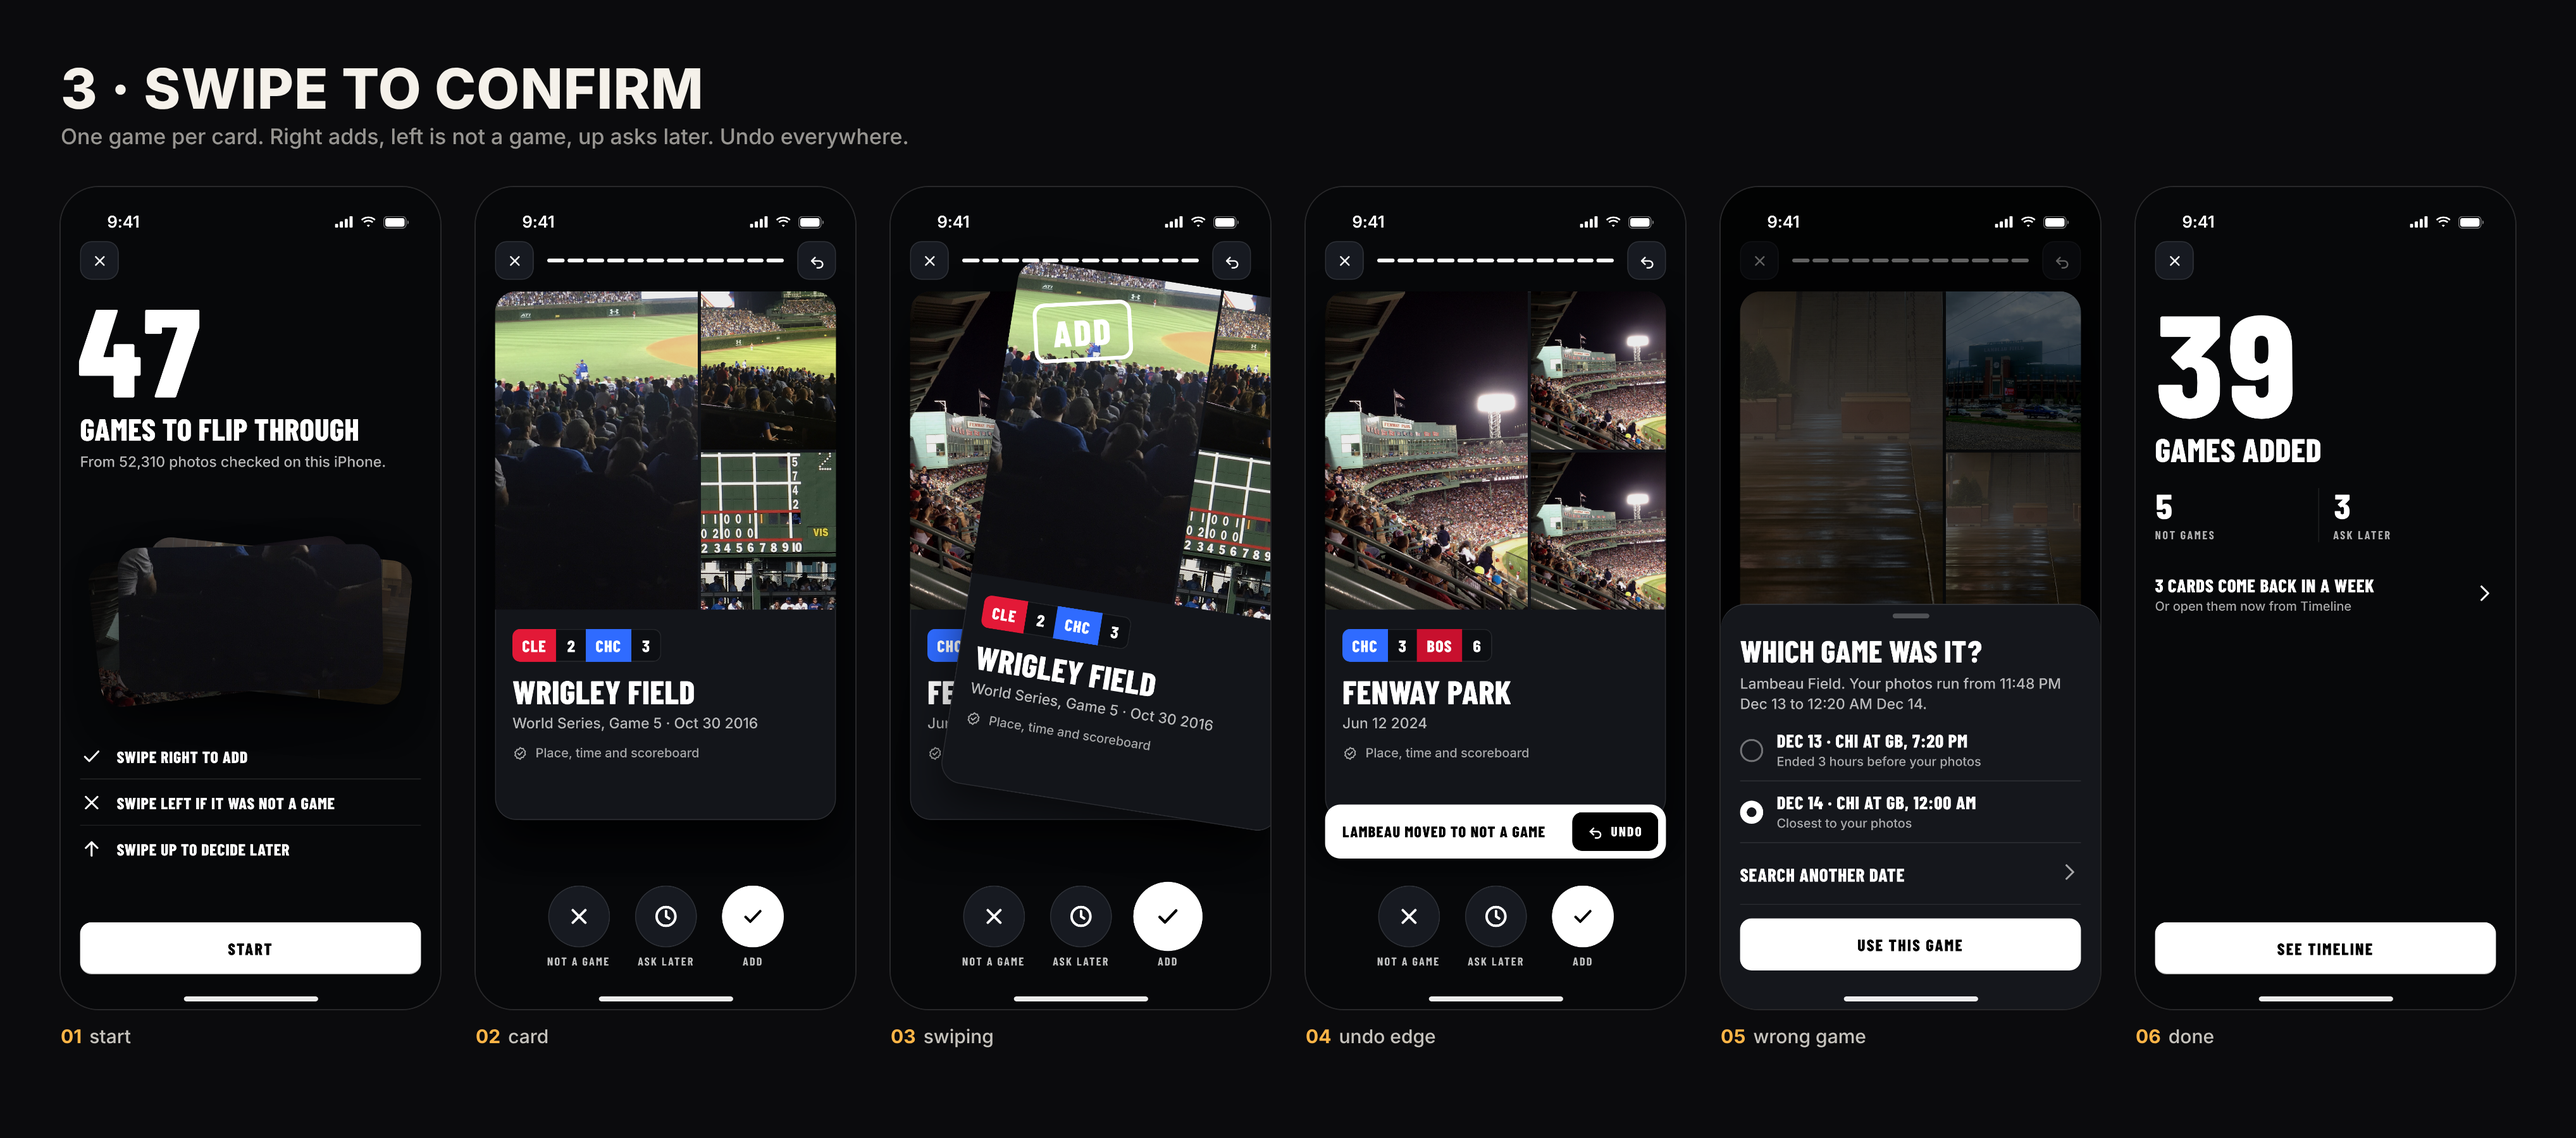
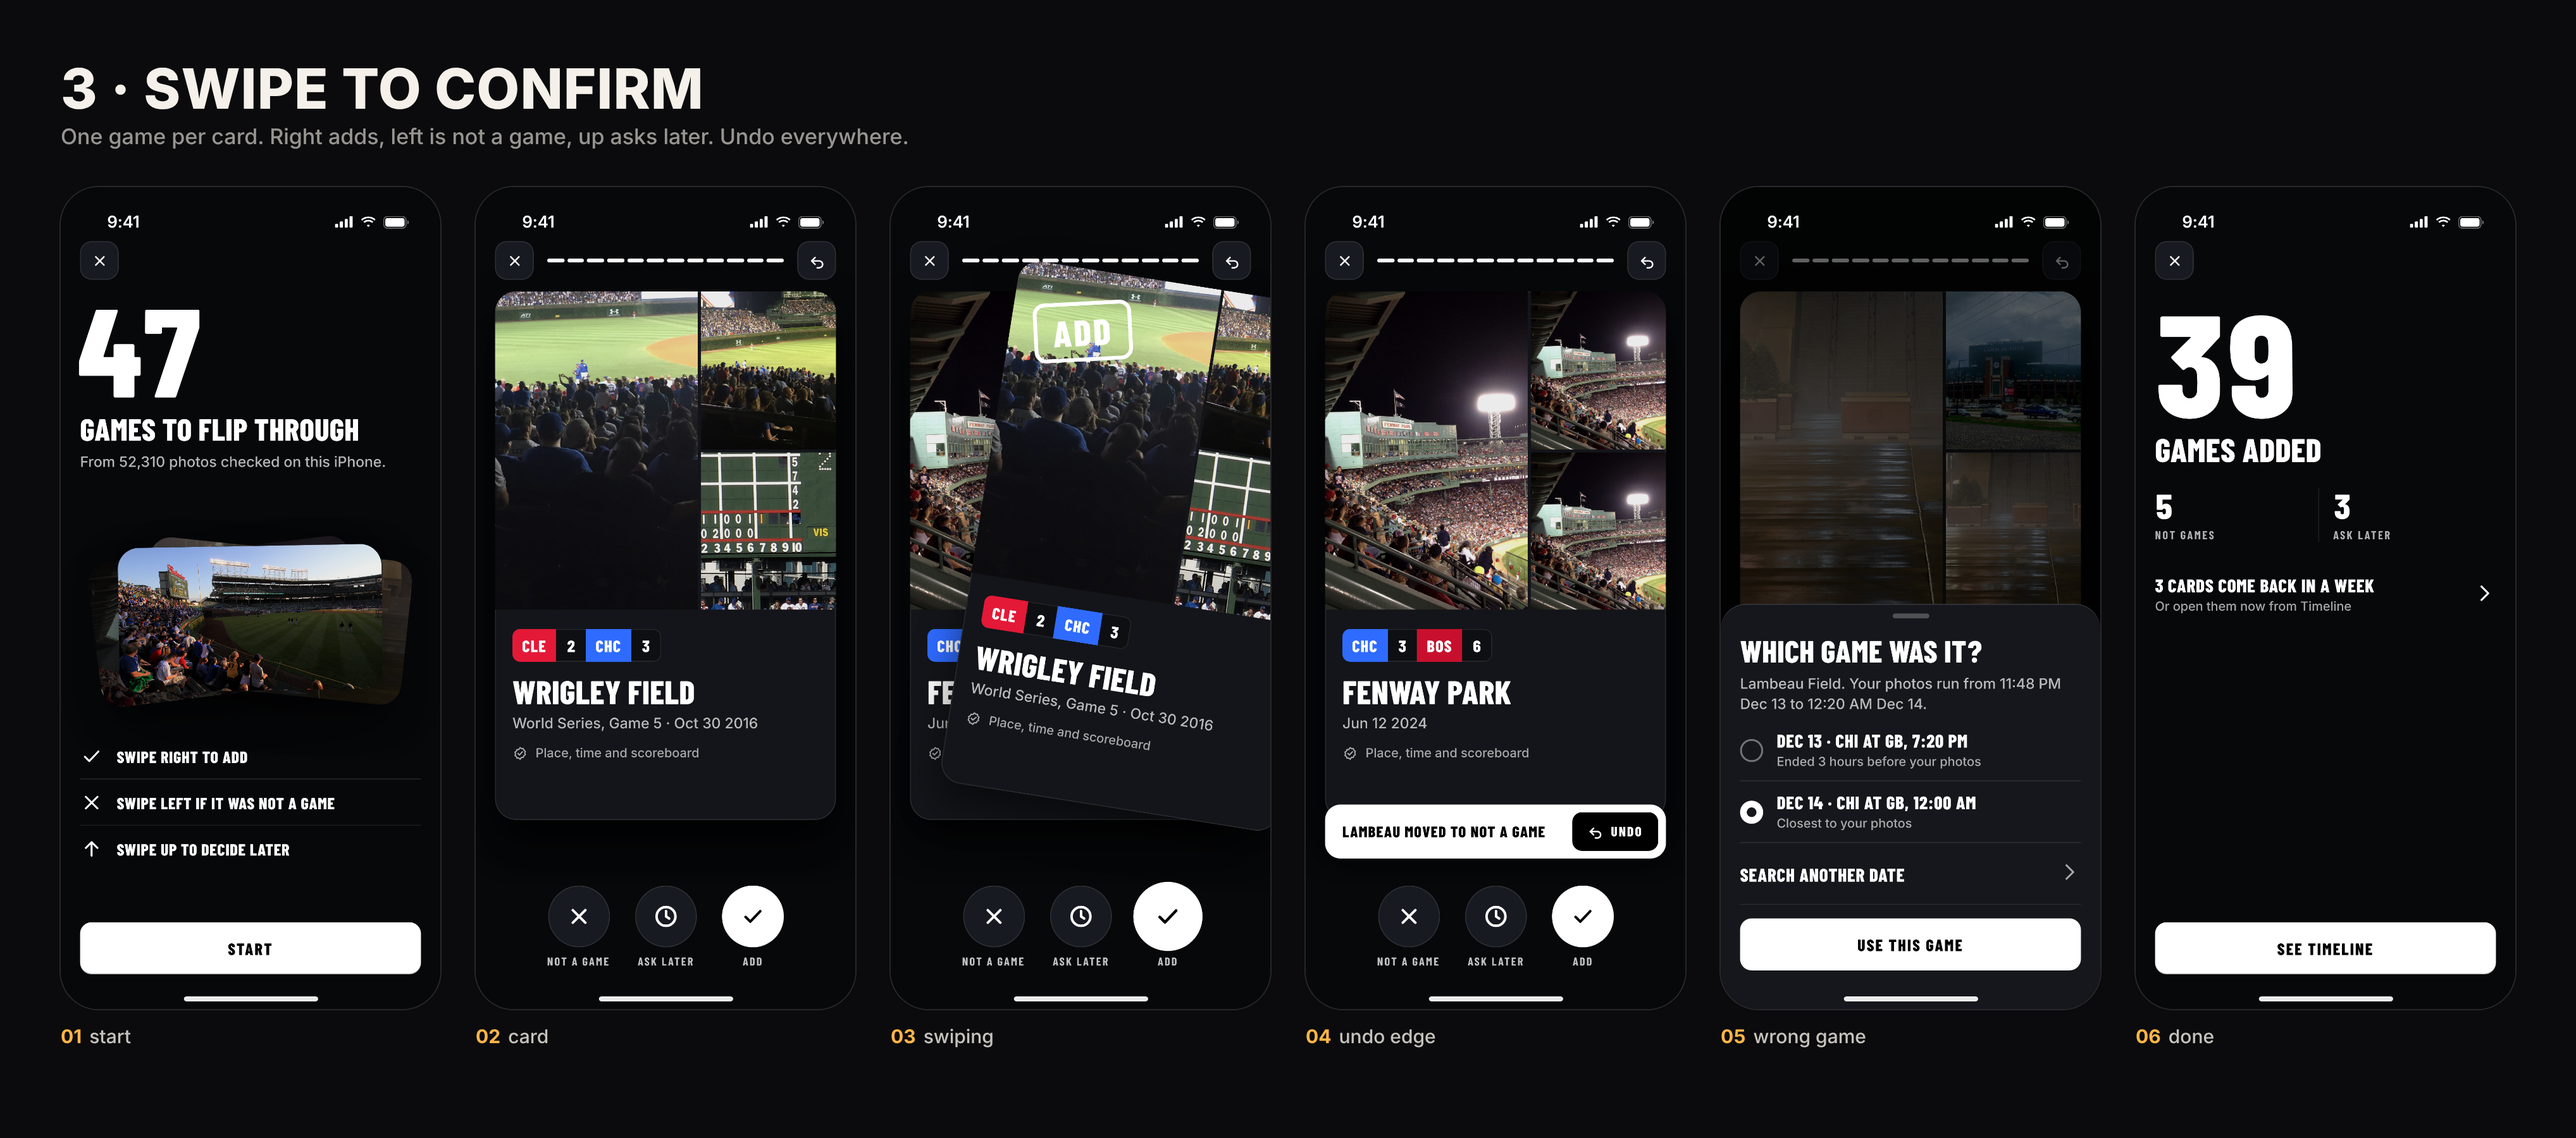
Mockups: timeline view modes and switcher
Claude-Session: https://claude.ai/code/session_01YKCsRGYnDsF5Pryete24Wa

Changed region(s): [[0.0312, 0.4667, 0.1559, 0.6222]]

diff --git a/mockups/scan-handling/features/approach-3/v1-start.html b/mockups/scan-handling/features/approach-3/v1-start.html
@@ -81,7 +81,7 @@ body.b { --b-text-3: rgba(255,255,255,.62); --amber:#ffb547; }
 <div style="position:absolute;left:60px;right:60px;top:372px;height:150px">
   <div class="card b2" style="top:0;transform:rotate(-7deg) translateX(-26px)"><div class="abs"><img class="im" src="../../../photos/fenway-night.jpg" style="object-position:50% 40%;"></div></div>
   <div class="card b2" style="transform:rotate(6deg) translateX(26px)"><div class="abs"><img class="im" src="../../../photos/lambeau-concourse.jpg" style="object-position:50% 96%;transform:scale(1.6);transform-origin:50% 96%;"></div></div>
-  <div class="card" style="transform:rotate(-1deg)"><div class="abs"><img class="im" src="../../../photos/wrigley-night.jpg" style="object-position:60% 92%;transform:scale(1.9);transform-origin:60% 92%;"></div></div>
+  <div class="card" style="transform:rotate(-1deg)"><div class="abs"><img class="im" src="../../../photos/wrigley-bleachers.jpg" style="object-position:50% 50%;"></div></div>
 </div>
 <div style="position:absolute;left:20px;right:20px;top:566px" class="f-list">
   <div class="gr" style="min-height:48px;gap:14px"><span class="ico24" style="display:grid"><svg class="ico24" viewBox="0 0 24 24"><path d="M5 12.5l4.5 4.5L19 7"/></svg></span><div class="t" style="font-size:17px">Swipe right to add</div></div>

diff --git a/mockups/scan-handling/a345.py b/mockups/scan-handling/a345.py
@@ -42,7 +42,7 @@ page(F, 'v1-start', 'Swipe intro', nav(icb('x')) + '''
 <div style="position:absolute;left:60px;right:60px;top:372px;height:150px">
   <div class="card b2" style="top:0;transform:rotate(-7deg) translateX(-26px)"><div class="abs">''' + im('fenway-night.jpg', '50% 40%') + '''</div></div>
   <div class="card b2" style="transform:rotate(6deg) translateX(26px)"><div class="abs">''' + im('lambeau-concourse.jpg', '50% 80%') + '''</div></div>
-  <div class="card" style="transform:rotate(-1deg)"><div class="abs">''' + im('wrigley-night.jpg', '50% 38%') + '''</div></div>
+  <div class="card" style="transform:rotate(-1deg)"><div class="abs">''' + im('wrigley-bleachers.jpg', '50% 50%') + '''</div></div>
 </div>
 <div style="position:absolute;left:20px;right:20px;top:566px" class="f-list">
   <div class="gr" style="min-height:48px;gap:14px"><span class="ico24" style="display:grid">''' + I['check'].replace('<svg', '<svg class="ico24"') + '''</span><div class="t" style="font-size:17px">Swipe right to add</div></div>

diff --git a/mockups/timeline-views/NOTES.md b/mockups/timeline-views/NOTES.md
@@ -1,0 +1,21 @@
+# Timeline view modes (60 sample games, 2014-2026). Screens in png/, contact sheet png/overview.png
+Switcher: one 40pt pull-down button in the nav bar (icon + view name + chevron). Sport chips live on their own row below and apply to every view; the choice persists per device. Open menu: `00-switcher/v1`. Closed + filter: `v2`. Rejected alternatives (segmented icons, floating pill): `v3`.
+**Default: Season shelf.** Photo-led like today's cards, one gesture, and it scales (a page is one year). **Ship first: Season shelf + Cover mosaic** (emotional front door + power-user density). Then Calendar, Strip, Tickets, Map. Cards stays as a 7th "classic" entry.
+## Views (games = comfortable range)
+1. **Season shelf** (5-400). Poster page per year, finals promoted to a 2x2 tile, year rail doubles as pager. Swipe = year, tap rail = jump. States: 1 game = one big tile + "next game" ghost (`07-states/v1`); 0 games = ghost poster + two CTAs (`v2`); hundreds = page grid scrolls vertically, tiles stay 112pt. SwiftUI: `ScrollView(.horizontal)` + `LazyHStack`, `.scrollTargetBehavior(.paging)`, page = `LazyVGrid` / `Grid` with `gridCellColumns(2)` for the big tile.
+2. **Calendar heat map** (20-1000). 12 mini-months, game days lit in sport color, tap a day to peek a card (`02`). Gestures: chevrons/swipe = year, tap month = month zoom with 44pt days (14pt cells are a glance, not a tap target). Empty year = unlit grid; one game = a single lit dot. SwiftUI: `Canvas` for dots, one `Path` hit-test (`SpatialTapGesture`), `matchedGeometryEffect` from month to month view. Cache one `Image` per month.
+3. **Cover mosaic** (30-5000). Years / Months / All via pinch or the zoom pill (`03`), finals get 2x2, pin on other big games. Empty months collapse; no-photo games get a tinted score tile. SwiftUI: `LazyVGrid` with 3/4/5 `GridItem`s driven by `MagnifyGesture`, `matchedGeometryEffect` year tile to month grid. Use downsampled thumbnails (ImageIO) and `.drawingGroup()` only on tiles with overlays.
+4. **Ticket wallet** (3-40). Newest stub expanded, older ones stacked with sport edges (`04`). Drag = fan through (each stub rises to the front), tap = open memory. Beyond ~40 it should collapse to a year stack. SwiftUI: `ZStack` + `.offset` driven by scroll position, `visualEffect` for depth; render only 8 stubs. Empty: show a blank stub.
+5. **Map scrubber** (10-300). Globe on top, time scrubber under it, one card below (`05`). Dragging the thumb moves the pin and swaps the card; later venues ghost. Gestures: drag thumb, tap pin, long-press tick for the nearest big game. Chicago pins overlap, so cluster venues past ~25 and zoom on tap. SwiftUI: MapKit `Map` + `MapPolyline`, or a `Canvas` orthographic globe; scrubber is a `Slider`-like `DragGesture` snapping with `.sensoryFeedback(.selection)`.
+6. **Scoreboard strip** (20-2000). Month rows, each a film strip of score bugs; the densest scan (`06`). Swipe a strip sideways, tap a bug to select, readout docks above the tabs. SwiftUI: `LazyVStack(pinnedViews: .sectionHeaders)` of `ScrollView(.horizontal)` rows with `scrollPosition`. Cheapest view: no images.
+## Rules shared by all views
+- Photo-less games always get a tinted score tile; scores are text, never baked into images. Rooted team is listed first, winner score bold.
+- Big games: small shield pin + event name text + 3-color ribbon (own shapes, event palette; no logos). Finals = 2x2/hero tier, other playoffs = pin only.
+- Perf: one shared thumbnail cache (3 sizes), `LazyVGrid`/`LazyVStack` only, no `blur` over scrolling content except the nav and zoom pill materials. Keep view state in one `@AppStorage("timelineView")` and the filter in the model so views swap without refetching.
+- Accessibility: every tile is one element ("World Series Game 5, Cubs 3, Indians 2, Oct 30 2016, big game"); calendar and scrubber expose `accessibilityAdjustableAction` (next/previous game) instead of dots; sport is never color-only (dot + name in chips, abbreviations in bugs); respect Reduce Motion (no fan/zoom springs, cross-fade); minimum text 12pt, Dynamic Type up to XL in the strip and menu rows.
+## Mobbin references (ios, 3 searches)
+- Year tabs over month-grouped photo grid, Corner: https://mobbin.com/screens/2fcd0d19-8482-4120-b7d7-66387e609be3 (Seasons rail, Mosaic months)
+- Year calendar with Day / Month / Year segmented control, Stardust: https://mobbin.com/screens/0787c42b-58de-4ce7-b3d4-4630b3863afd (Calendar)
+- Dense 3-column photo grid with Grid / List tabs, Strava: https://mobbin.com/screens/081d8fbf-5f95-46ef-a28b-e2def6245279 (Mosaic All)
+- The wallet-stack search returned no usable stacked-card screens; the ticket stack follows Apple Wallet from memory.
+Build: `python3 build.py` here, then the render command from the brief; `png/overview.png` is a PIL contact sheet.
